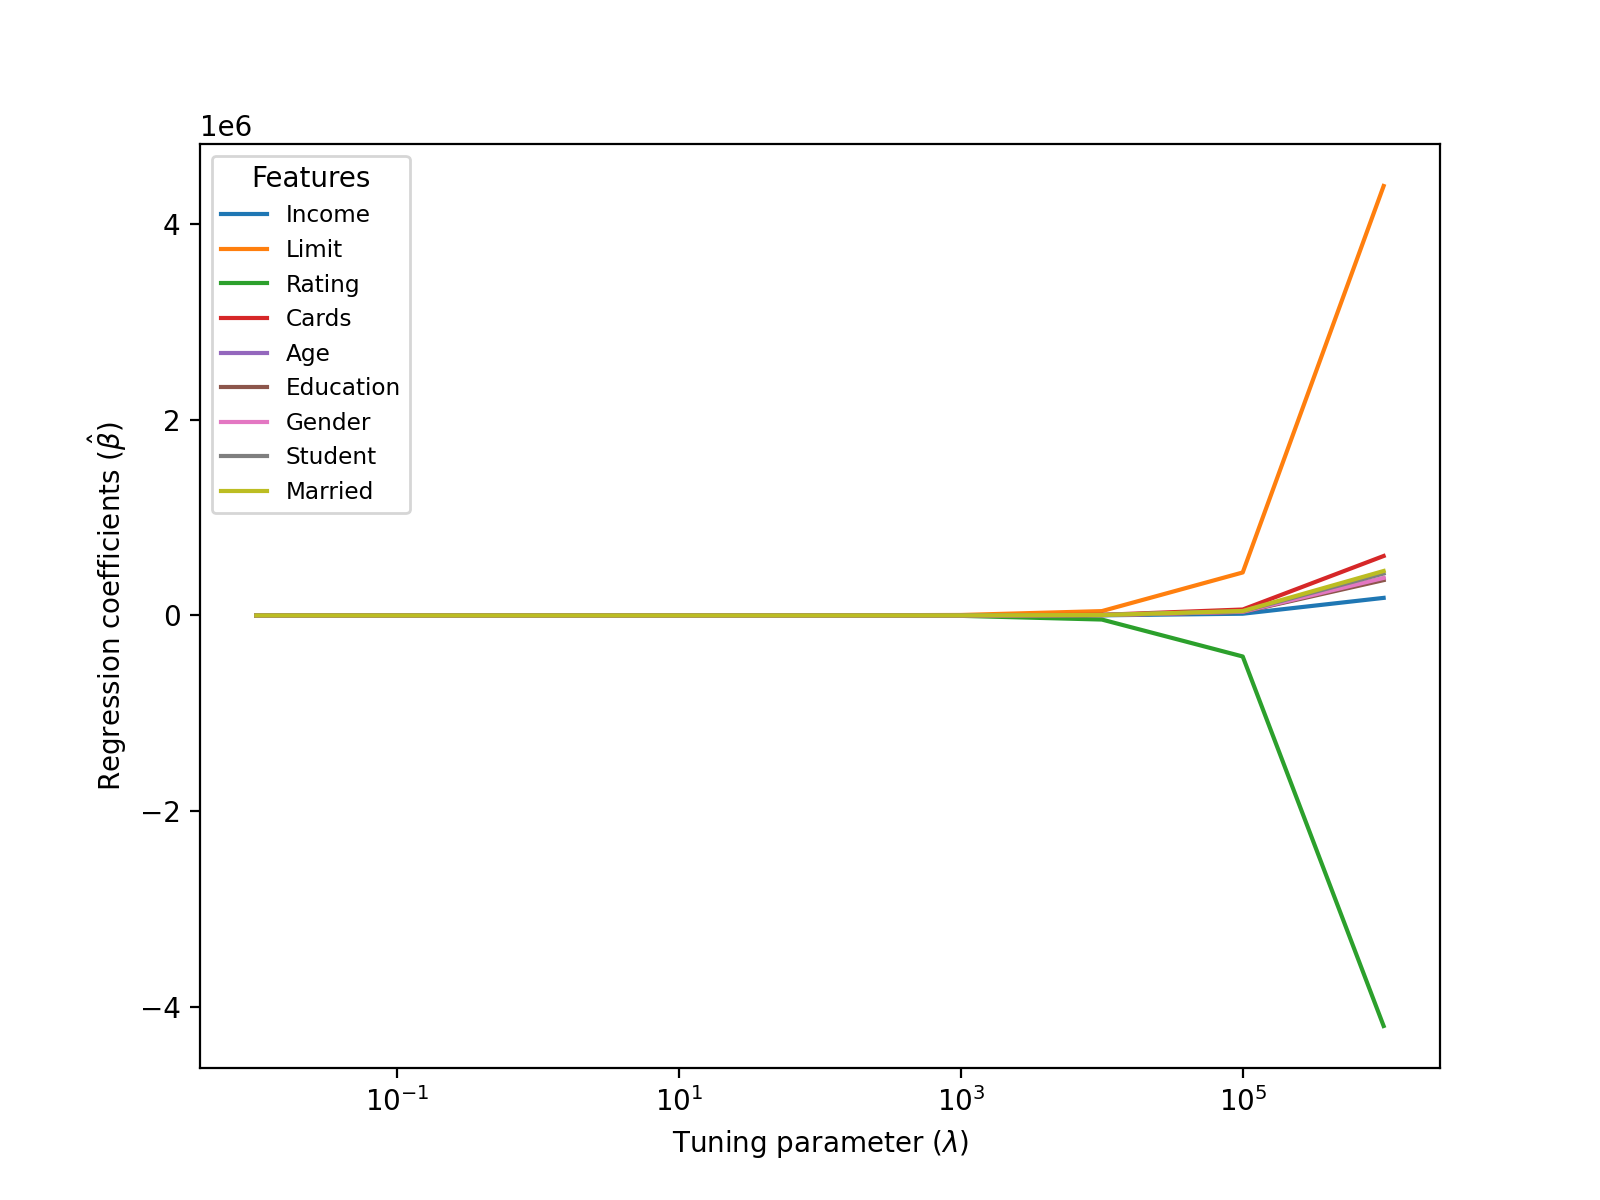
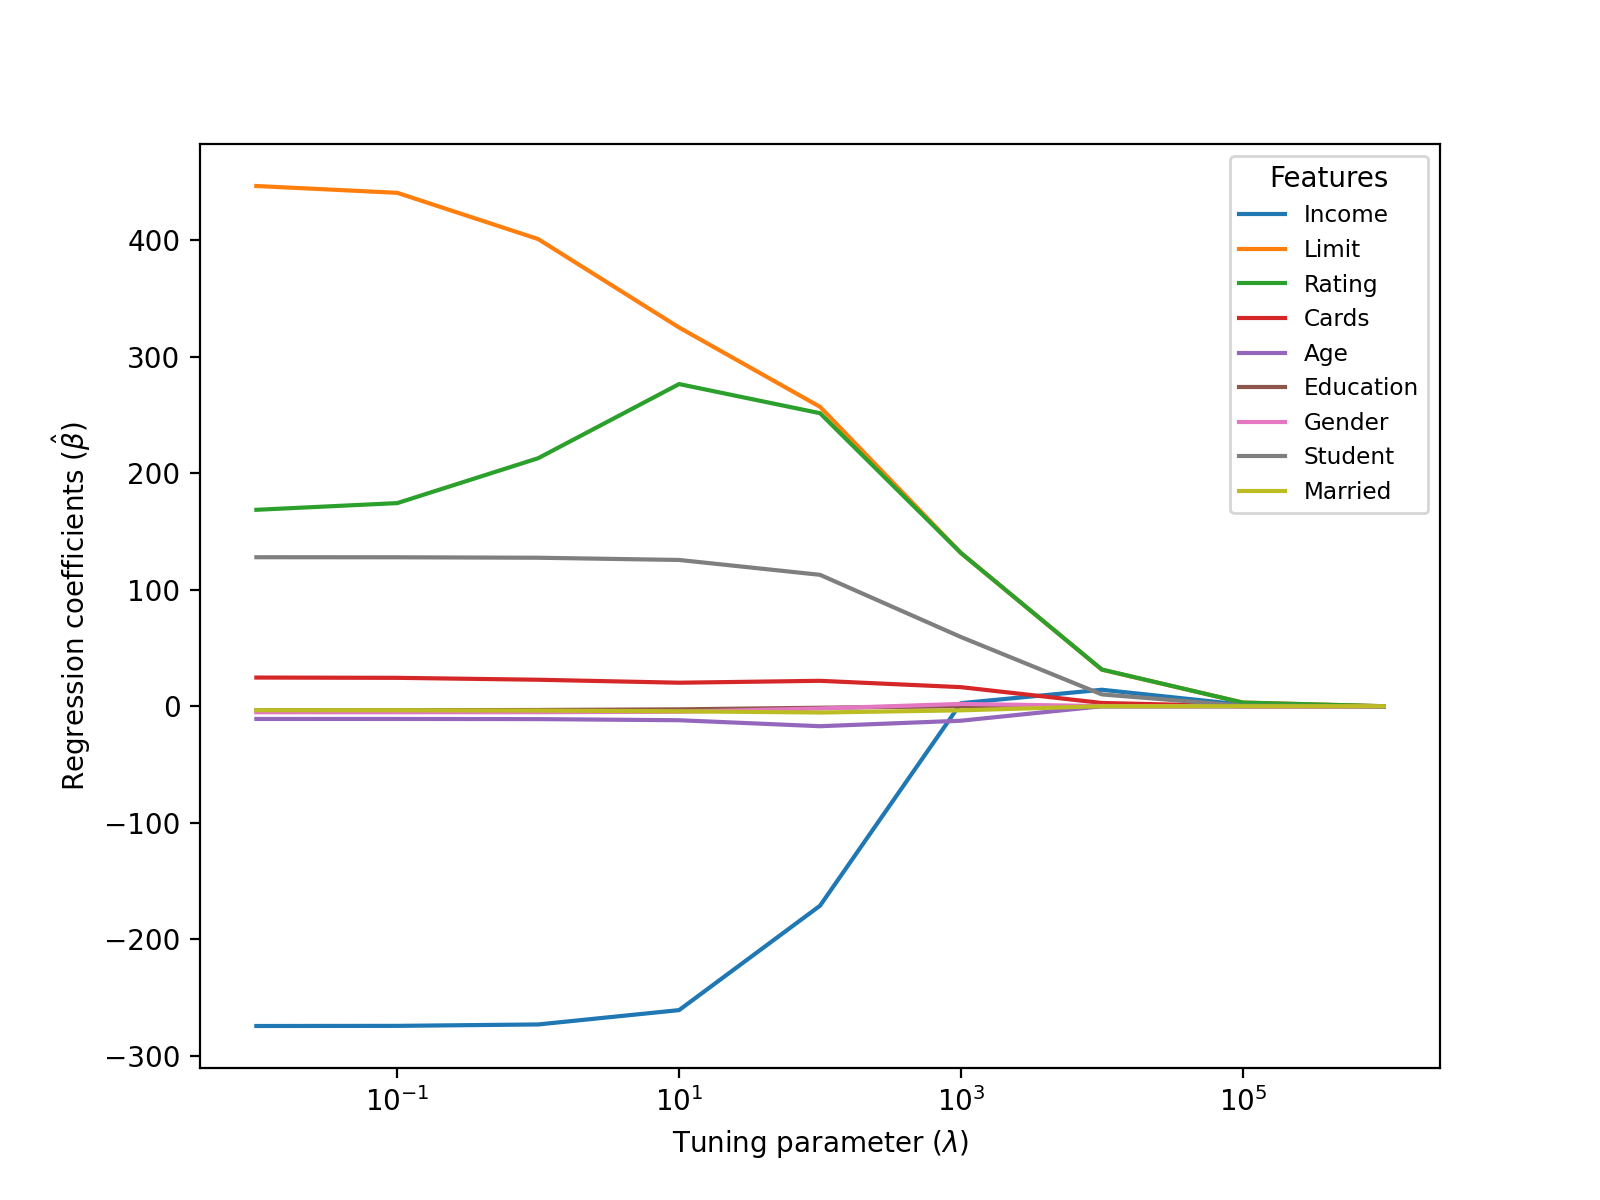
Now that's more like it

diff --git a/ErenAkgunduz_Assign2.py b/ErenAkgunduz_Assign2.py
@@ -19,7 +19,7 @@ logger.addHandler(fh)
 
 # --- all tuning parameters ---
 # grid of tuning parameters represented by lambda
-l = np.array([10**-2, 10**-1, 1, 10, 10**2, 10**3, 10**4, 10**5, 10**6])
+l = np.array([1e-2, 1e-1, 1, 10, 1e2, 1e3, 1e4, 1e5, 1e6])
 a = np.array([0, 0.2, 0.4, 0.6, 0.8, 1])  # alpha
 
 
@@ -78,7 +78,7 @@ def coordinate_descent(X, y, l, a) -> np.ndarray:
                 x_k = X[:, k]
                 a_k = x_k.T @ (y - X @ beta + x_k * beta[k])
                 relu = np.maximum(0, np.abs(a_k) - (l * (1 - a) / 2))
-                beta[k] = np.sign(a_k) * relu / b[k] + l * a
+                beta[k] = np.sign(a_k) * relu / (b[k] + l * a)
         return beta
 
     coeffs = np.zeros((6, 9, 9))
@@ -182,7 +182,7 @@ def main():
     # --- Deliverable 4 ---
     B = coordinate_descent(X, y, l_optimal, a_optimal)
     print(B)
-    B = coordinate_descent(X, y, l_optimal, a[0])  # lasso, same arguments as before
+    B = coordinate_descent(X, y, l_optimal, a[0])  # lasso
     print(B)
     B = coordinate_descent(X, y, l_optimal, a[5])  # ridge
     print(B)

diff --git a/ErenAkgunduz_Assign1.py b/ErenAkgunduz_Assign1.py
@@ -19,7 +19,7 @@ logger.addHandler(fh)
 
 
 # grid of tuning parameters represented by lambda
-l = np.array([10**-2, 10**-1, 1, 10, 10**2, 10**3, 10**4])
+l = np.array([1e-2, 1e-1, 1, 10, 1e2, 1e3, 1e4])
 
 
 def preprocess_data(filename: str) -> tuple:
